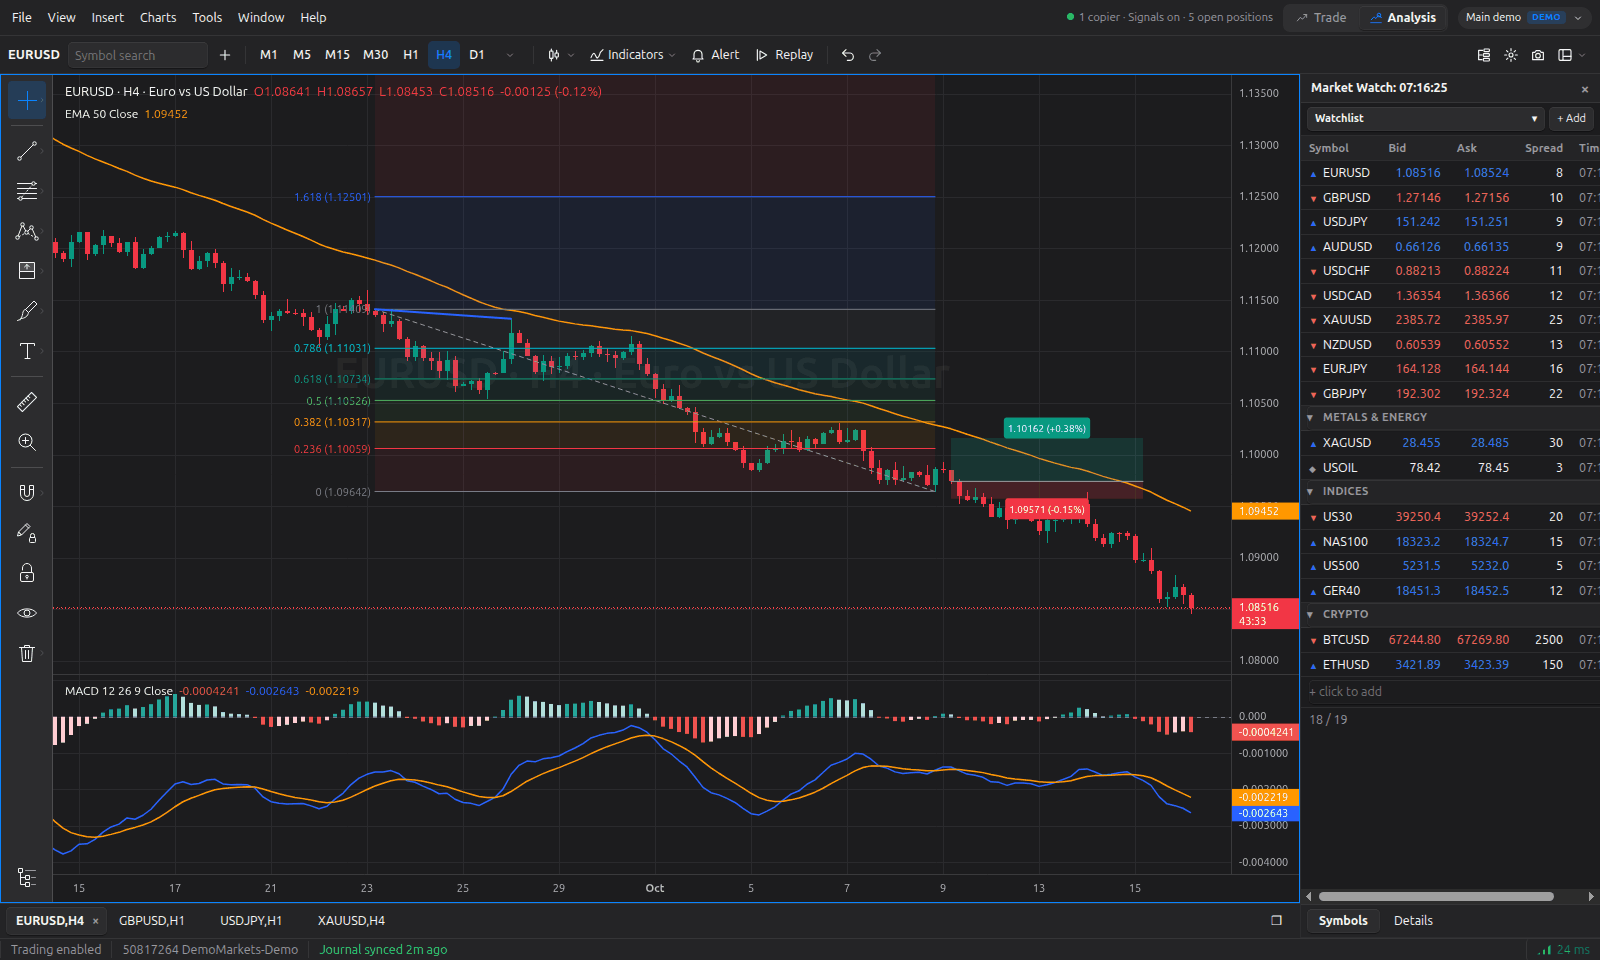
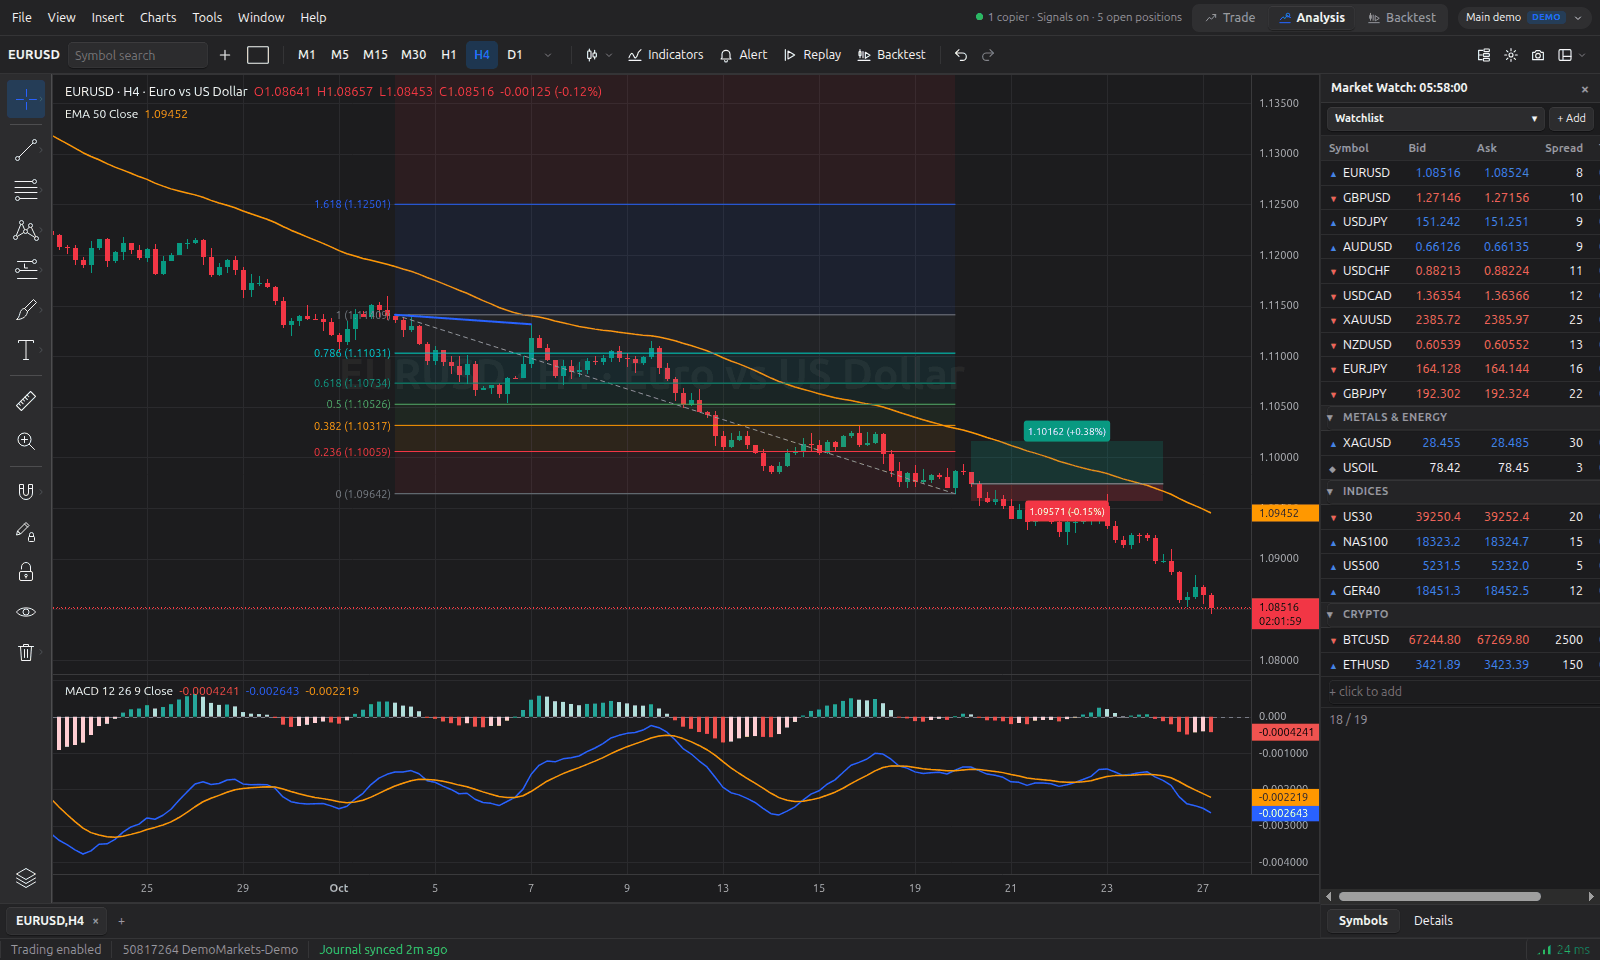
docs: README mentions for typed symbol search, drawing multi-select and TradingView sync
- New "Just start typing" section with a symbol search screenshot:
  letters open symbol search, numbers switch the timeframe, and
  favourite timeframes sit on the chart bar.
- Drawing tools section: Ctrl+drag and Ctrl+click multi-selection, the
  magnet snapping to OHLC and two-way TradingView drawing sync, with a
  screenshot of four drawings selected together.
- Feature lists, intro and shortcut table updated to match.
- Analysis mode and drawing settings screenshots re-captured with the
  new drawing toolbar icons.

diff --git a/README.md b/README.md
@@ -29,7 +29,8 @@ already know: Market Watch, charts, the Toolbox, one-click trading. Then it keep
 usually pay for as Expert Advisors, VPS add-ons or monthly subscriptions come built in:
 
 - 📈 **Charts that feel like TradingView**, drawn by Meridian, OpenTerm5's own chart engine: 86 studies,
-  82 drawing tools, layouts of up to 16 synced charts, bar replay, undo and redo.
+  82 drawing tools, layouts of up to 16 synced charts, bar replay, undo and redo, and drawings kept in
+  sync with your TradingView account.
 - 🧪 **Backtesting on replayed history**: trade a simulated account bar by bar, with realistic fills,
   saved sessions and full statistics.
 - 🎯 **Risk-based orders.** Say "1% of balance, stop under that low", and OpenTerm5 works out the lots,
@@ -65,12 +66,28 @@ signals and guards keep running in the background, so switching modes never stop
 
 ![Analysis mode with a Fibonacci retracement, a trend line, a long position tool, an EMA and MACD, the drawing toolbar on the left and the watchlist on the right](docs/images/screenshots/analysis-mode.png)
 
+### Just start typing
+
+Click a chart and type, as you would in TradingView. Letters open symbol search with what you typed
+and Enter switches the chart; numbers switch the timeframe (`15`, `4h`, `1D`, or MetaTrader's `M15`
+and `H4`). Star the timeframes you use most to keep them on the chart bar.
+
+![Symbol search opened by typing USD on an EURUSD chart, listing USD pairs, crypto and metals](docs/images/screenshots/symbol-search.png)
+
 ### Drawing tools that behave the way your hands expect
 
 Fibonacci, Gann, pitchforks, channels, patterns, long and short positions, volume profiles: 82 tools in
 all, with favourites, a magnet and a floating style bar. The settings dialog works like TradingView's,
 down to custom colours, editable levels, templates and visibility per timeframe. Edits show live, and
 **Cancel** really does put things back.
+
+Pick up several drawings at once: <kbd>Ctrl</kbd>+drag a box over them, or <kbd>Ctrl</kbd>+click
+each one, then move, copy or delete them together. With the magnet on, the crosshair and every anchor
+you place snap to the bar's open, high, low or close. And if you also chart on TradingView, link a
+symbol in **File → Import from TradingView → Sync**: what you draw or change there shows up here within
+seconds, and your edits, deletions and undos here are saved back to TradingView.
+
+![Four drawings selected together with a Ctrl+drag box: a Fibonacci retracement, a trend line, a long position and a rectangle, each showing its handles](docs/images/screenshots/drawing-handles.png)
 
 <table>
   <tr>
@@ -236,8 +253,10 @@ your system, give a single chart one of 7 chart themes, or import your saved Tra
   TradingView script link (open-source scripts only) or the source, or import TradingView's popular list. Plots, fills (gradients too),
   shapes, bar and background colours, lines, boxes, labels, polylines, tables and `request.security()`
   are drawn; each script keeps its author and licence.
-- 82 drawing tools in six groups, with favourites, a magnet, text on lines, templates and per-timeframe
-  visibility.
+- 82 drawing tools in six groups, with favourites, a magnet that snaps to open, high, low or close,
+  text on lines, templates, per-timeframe visibility, and Ctrl+click or Ctrl+drag to select several.
+- Type on a chart to switch it: a symbol name opens symbol search, a number changes the timeframe.
+  Favourite timeframes go on the chart bar.
 - Layouts of 1 to 16 charts per tab with symbol, interval, crosshair, time, date range and drawing
   sync, and bar replay that runs every chart of a layout on one clock.
 - Backtesting sessions: a simulated account with spread, slippage, commission, leverage and stop
@@ -278,6 +297,9 @@ your system, give a single chart one of 7 chart themes, or import your saved Tra
   Discord, Slack, Telegram or JSON.
 - **Import from TradingView:** bring over your drawings (placed on your broker's bars, daylight saving
   included), drawing templates, chart themes and chart settings.
+- **Sync with TradingView:** link a TradingView symbol to an account symbol and its drawings stay in
+  step: changes in TradingView arrive within seconds, and edits, deletions and undos here are saved
+  back. Drawings you create in OpenTerm5 stay local for now.
 - **Journaling:** automatic, verified trade sync to Tradescribe, with in-app reviews.
 
 </details>
@@ -313,6 +335,7 @@ a demo account and have a play.
 | <kbd>F9</kbd> | New order |
 | <kbd>Ctrl</kbd>+<kbd>1</kbd> to <kbd>Ctrl</kbd>+<kbd>5</kbd> | Trading, Trade Copier, Signals, Automation, Journaling |
 | <kbd>Ctrl</kbd>+<kbd>Shift</kbd>+<kbd>A</kbd> | Switch between trading and analysis mode |
+| Type on a chart | A symbol name opens symbol search, a number changes the timeframe |
 | <kbd>Ctrl</kbd>+<kbd>Z</kbd> / <kbd>Ctrl</kbd>+<kbd>Y</kbd> | Undo and redo on the chart |
 | <kbd>Alt</kbd>+<kbd>B</kbd> | Depth of Market |
 
